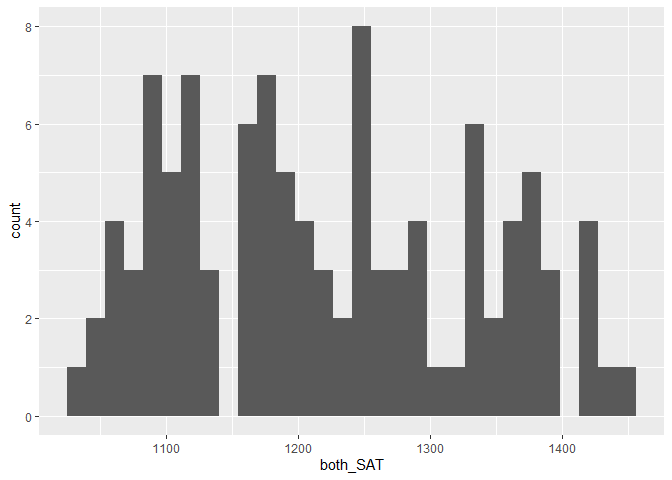
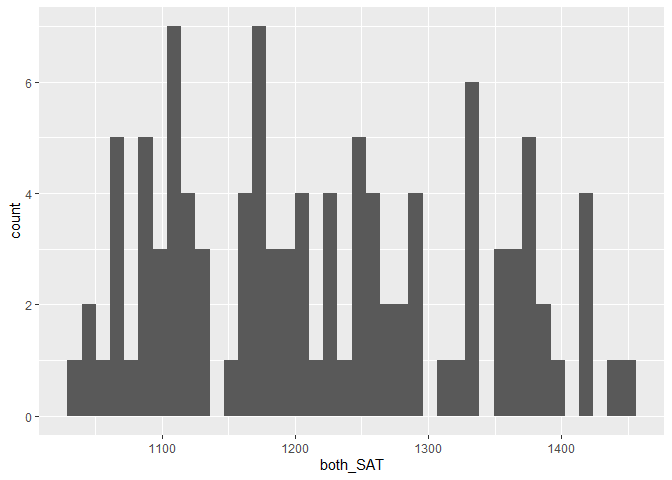
c10 update

diff --git a/challenges/c10-sat-assignment.md b/challenges/c10-sat-assignment.md
@@ -96,9 +96,12 @@ library(tidyverse)
 
     ## ── Attaching packages ─────────────────────────────────────── tidyverse 1.3.2 ──
     ## ✔ ggplot2 3.4.1     ✔ purrr   1.0.1
-    ## ✔ tibble  3.1.8     ✔ dplyr   1.1.0
+    ## ✔ tibble  3.2.1     ✔ dplyr   1.1.0
     ## ✔ tidyr   1.3.0     ✔ stringr 1.5.0
     ## ✔ readr   2.1.4     ✔ forcats 1.0.0
+
+    ## Warning: package 'tibble' was built under R version 4.2.3
+
     ## ── Conflicts ────────────────────────────────────────── tidyverse_conflicts() ──
     ## ✖ dplyr::filter() masks stats::filter()
     ## ✖ dplyr::lag()    masks stats::lag()
@@ -205,8 +208,9 @@ df_sat %>% glimpse
     computer science, and university, and that they are all from the
     same university.
 - What kinds of information *do we not have* about these students?
-  - (Your response here) Everything else about them, including high
-    school activities.
+  - (Your response here) Whether they have taken the SAT exam multiple
+    times, which SAT exam they took, socioeconomic status of family,
+    etc.
 - Based on these missing variables, what possible effects could be
   present in the data that we would have *no way of detecting*?
   - (Your response here) Academic dishonesty, and students taking
@@ -287,40 +291,43 @@ to see if this assumption looks reasonable for our data.
 #   geom_histogram(aes(x = high_GPA)) +
 #   geom_histogram(aes(x = univ_GPA))
 
-ggplot(df_composite, aes(x = both_SAT)) + geom_histogram()
+ggplot(df_composite, aes(x = both_SAT)) + geom_histogram(bins = 40)
 ```
-
-    ## `stat_bin()` using `bins = 30`. Pick better value with `binwidth`.
 
 ![](c10-sat-assignment_files/figure-gfm/q3-task-1.png)<!-- -->
 
 ``` r
-ggplot(df_composite, aes(x = high_GPA)) + geom_histogram()
+ggplot(df_composite, aes(x = high_GPA)) + geom_histogram(bins = 40)
 ```
-
-    ## `stat_bin()` using `bins = 30`. Pick better value with `binwidth`.
 
 ![](c10-sat-assignment_files/figure-gfm/q3-task-2.png)<!-- -->
 
 ``` r
-ggplot(df_composite, aes(x = univ_GPA)) + geom_histogram()
+ggplot(df_composite, aes(x = univ_GPA)) + geom_histogram(bins = 40)
 ```
-
-    ## `stat_bin()` using `bins = 30`. Pick better value with `binwidth`.
 
 ![](c10-sat-assignment_files/figure-gfm/q3-task-3.png)<!-- -->
 
 **Observations**:
 
 - To what extent does `both_SAT` look like a normal distribution?
-  - (Your response here) The counts taper off on either extremes,
-    however the counts in between are quite evenly spread.
+  - (Your response here) Out of the three variables, `both_SAT` looks
+    the most similar to a normal distribution. There is some noise
+    throughout the score value, but the general characteristics of a
+    normal distribution - the ‘bell shape’ - can be seen.
 - To what extent does `high_GPA` look like a normal distribution?
   - (Your response here) It looks like there are two humps - as if there
     were two normal distributions next to each other. Counts taper out
-    on either extremes but at the middle as well. (This is interesting
+    on either extremes but at the middle as well, as if there are two
+    separate groups with `3.0` as a bordering value. This is interesting
     as I heard many of my math teachers talk about how student grades
-    exhibit this exact behavior.)
+    exhibit this exact behavior. While one may argue that this group
+    looks like more of a skew, testimonials from teachers, and the
+    `univ_GPA` histogram itself suggest that there are two humps. I
+    argue that taking a look at `univ_GPA` can inform what is happening
+    in this histogram as well, since the statistics are both related to
+    schoolwork, which is a relevant pairing in regards to student
+    behavior and performance - the GPA.
 - To what extent does `univ_GPA` look like a normal distribution?
   - (Your response here) It is similar to the shape of `high_GPA`.
     However, the hump on the left is significantly smaller than the one
@@ -422,13 +429,13 @@ cor.test(df_boot$high_GPA, df_boot$univ_GPA)
     ##  Pearson's product-moment correlation
     ## 
     ## data:  df_boot$high_GPA and df_boot$univ_GPA
-    ## t = 399.68, df = 104998, p-value < 2.2e-16
+    ## t = 402.14, df = 104998, p-value < 2.2e-16
     ## alternative hypothesis: true correlation is not equal to 0
     ## 95 percent confidence interval:
-    ##  0.7743774 0.7791752
+    ##  0.7762753 0.7810378
     ## sample estimates:
     ##       cor 
-    ## 0.7767876
+    ## 0.7786677
 
 **Observations**:
 
@@ -562,7 +569,7 @@ df_composite %>%
 ![](c10-sat-assignment_files/figure-gfm/q7-task-1.png)<!-- -->
 
 ``` r
-fit_add <- lm(univ_GPA ~ high_add, data = df_composite)
+fit_add <- lm(univ_GPA ~ both_SAT + high_GPA, data = df_composite)
 
 fit_add %>%
   tidy(
@@ -571,11 +578,12 @@ fit_add %>%
   )
 ```
 
-    ## # A tibble: 2 × 7
-    ##   term        estimate std.error statistic  p.value conf.low conf.high
-    ##   <chr>          <dbl>     <dbl>     <dbl>    <dbl>    <dbl>     <dbl>
-    ## 1 (Intercept) -0.174    0.351       -0.494 6.22e- 1 -1.10      0.749  
-    ## 2 high_add     0.00273  0.000286     9.56  6.91e-16  0.00198   0.00348
+    ## # A tibble: 3 × 7
+    ##   term        estimate std.error statistic       p.value  conf.low conf.high
+    ##   <chr>          <dbl>     <dbl>     <dbl>         <dbl>     <dbl>     <dbl>
+    ## 1 (Intercept) 0.540     0.318         1.70 0.0924        -0.294      1.37   
+    ## 2 both_SAT    0.000792  0.000387      2.05 0.0432        -0.000224   0.00181
+    ## 3 high_GPA    0.541     0.0837        6.47 0.00000000353  0.322      0.761
 
 ``` r
 #--------------------- high_GPA
@@ -641,22 +649,25 @@ fit_both_powers %>%
 **Observations**:
 
 - How well do these models perform, compared to the one you built in q6?
-  - (Your response here) For simply adding, the linear model does not
-    seem to make a significant difference. However, for using `high_GPA`
-    for the predictor, `std.error` for the `(Intercept)`, which the
-    scale should not change as `univ_GPA` is a fixed scale, have a
-    smaller value compared to the one in q6. This is an indicator that
-    the model here may perform better than the one built in q6. Also,
-    applying different computations to include `high_GPA` and `both_SAT`
-    may alter how well the model performs, from looking at the last
-    model.
+  - (Your response here) For simply adding `both_SAT` and `high_GPA`,
+    the linear model does not seem to make a significant difference.
+    However, for using `high_GPA` for the predictor, `std.error` for the
+    `(Intercept)`, which the scale should not change as `univ_GPA` is a
+    fixed scale, have a smaller value compared to the one in q6. This is
+    an indicator that the model here may perform better than the one
+    built in q6. Also, applying different computations to include
+    `high_GPA` and `both_SAT` may alter how well the model performs,
+    from looking at the last model.
 - What is the confidence interval on the coefficient of `both_SAT` when
   including `high_GPA` as a predictor?? Is this coefficient
   significantly different from zero?
-  - (Your response here) \[`conf.low` \~= 0.0019, `conf.high` \~=
-    0.0034\] The coefficient is significantly nonzero.
+  - (Your response here) \[`conf.low` \~= -0.00022, `conf.high` \~=
+    0.00180\] The confidence interval includes zero, therefore cannot be
+    concluded that the coefficient is significantly nonzero.
 - How do the hypothesis test results compare with the results in q6?
-  - (Your response here) $$\beta \neq 0$$
+  - (Your response here) The results in q6 suggested that
+    $$ \beta \neq 0 $$ with just `both_SAT`. Adding `both_SAT` and
+    `high_GPA`, however, suggests the possibility that $$ \beta = 0 $$
 
 ## Synthesize
 
